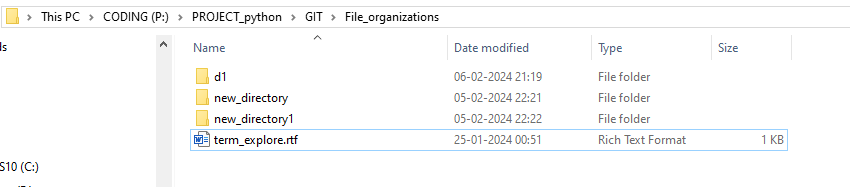
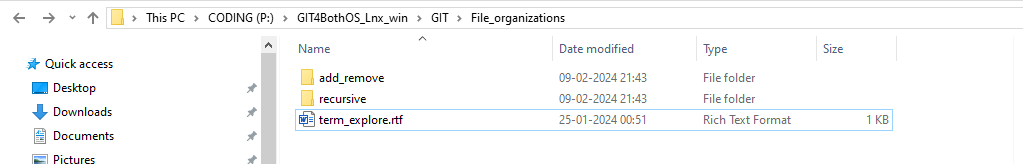
file add remove create operations in add remove folder

diff --git a/public/File_Organizations_via_Python_html/win_file_org_doc.html b/public/File_Organizations_via_Python_html/win_file_org_doc.html
@@ -618,19 +618,48 @@
                         <li class="bold">Linux <p>Compatible with Linux.</p></li>
                     </ul>
                 </li>
-                <li>Example :</li> <br> <br> checking the current path and set it to desired path to create and remove the file
+                <li>Example :</li> <br> <br> checking the current path and set it to desired path to create and remove the file <br> <br>
+                Creating folder add_remove first <br>
+                then adding add_remove.txt file to it <br>
                 <p class="code">
                     import os <br>
-                    current_directory = os.getcwd() <br>
-                    print("Current Working Directory:", current_directory) <br>
-                    new_directory = r"P:\PROJECT_python\GIT\File_organizations" &nbsp;&nbsp;  # Remove "example1.txt" from the path <br>
-                    os.chdir(new_directory) <br>
-                    updated_directory = os.getcwd() <br>
-                    print("Updated Working Directory:", updated_directory) <br> <br>
+                    directory_whoami = os.getcwd() <br>
+                    print("Current Working Directory:", directory_whoami) <br>
+                    directory_operations = r"P:\GIT4BothOS_Lnx_win\GIT\File_organizations"  # Remove "example1.txt" from the path <br>
+                    os.chdir(directory_operations) <br>
+                    directory_whoami = os.getcwd() <br>
+                    print("Updated Working Directory:", directory_whoami) <br>
+                    # Create a directory <br>
+                    os.mkdir("recursive") <br>
+                    # Create directories recursively <br>
+                    os.makedirs("recursive/a1/b3/d1/b2/a3") <br>
+                    # Create another directory <br>
+                    os.mkdir("add_remove") <br>
+                    add_remove_path = r"P:\GIT4BothOS_Lnx_win\GIT\File_organizations\add_remove" <br>
+                    os.chdir(add_remove_path) <br>
+                    directory_whoami = os.getcwd() <br>
+                    print("Updated Working Directory after creating directories recursively and\nadd remove directory :", directory_whoami) <br>
+                    <br>
                 </p><img src="../../assets/Python_file_org_ops/OS_mod_win_os_os.remove(path)_img10a.png" alt="OS_mod_win_os_os.remove(path)_img_10a"> <br> <br>
                 output folder result : <br> <br>
                     <img src="../../assets/Python_file_org_ops/OS_mod_win_os_os.remove(path)_img10b.png" alt="OS_mod_win_os_os.remove(path)_img10b">
-                now creating the file exmaple.txt
+                now creating the file add_remove.txt
+                    <p class="code">
+                        file_path = r"P:\GIT4BothOS_Lnx_win\GIT\File_organizations\add_remove\add_remove.txt" <br>
+                        fd1 =os.open(file_path,os.O_WRONLY | os.O_CREAT | os.O_TRUNC,0o777) <br>
+                        os.write(fd1, b"Please remove this file asap") <br>
+                    </p><img src="../../assets/Python_file_org_ops/OS_mod_win_os_os.remove(path)_img10c.png" alt="OS_mod_win_os_os.remove(path)_img10c.png">
+                    output folder status <br> <br>
+                    <img src="../../assets/Python_file_org_ops/OS_mod_win_os_os.remove(path)_img10d.png" alt="OS_mod_win_os_os.remove(path)_img10d.png">
+                now deleting the file add_remove.txt
+                    <p class="code">
+                        os.close(fd1) <br>
+                        print(f"current working directory, {os.getcwd()}") <br>
+                        # Remove a file <br>
+                        os.remove("add_remove.txt") <br>
+                    </p><img src="../../assets/Python_file_org_ops/OS_mod_win_os_os.remove(path)_img10e.png" alt="OS_mod_win_os_os.remove(path)_img10e.png">
+                    output folder status <br> <br>
+                    <img src="../../assets/Python_file_org_ops/OS_mod_win_os_os.remove(path)_img10f.png" alt="OS_mod_win_os_os.remove(path)_img10f.png">
             </ul>
         </li>
         <li><b class="bold">os.removedirs(path)</b>
